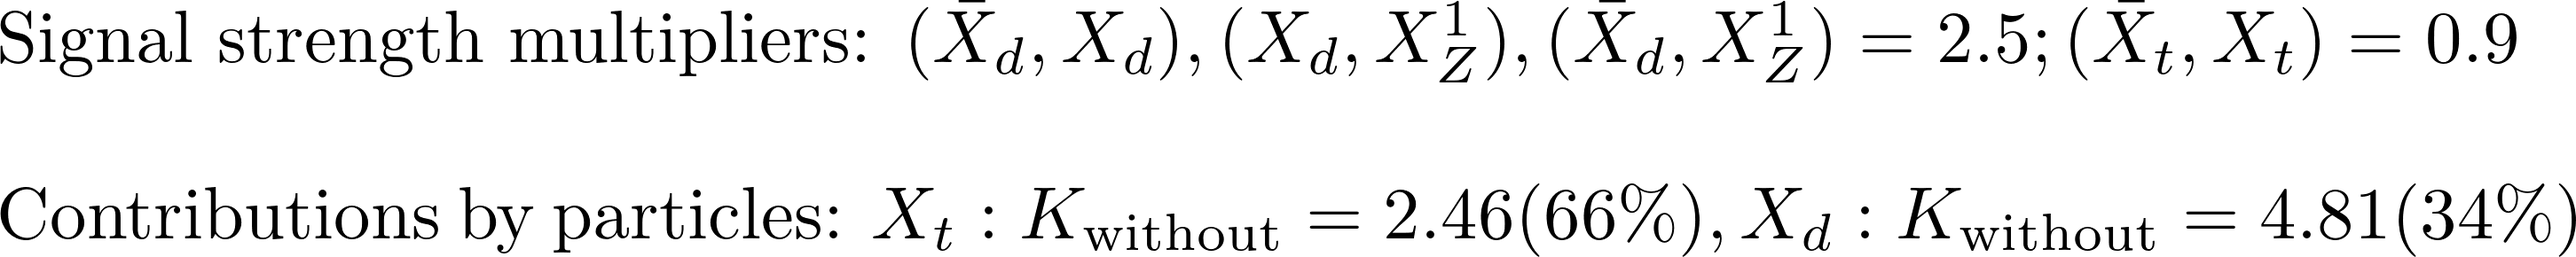
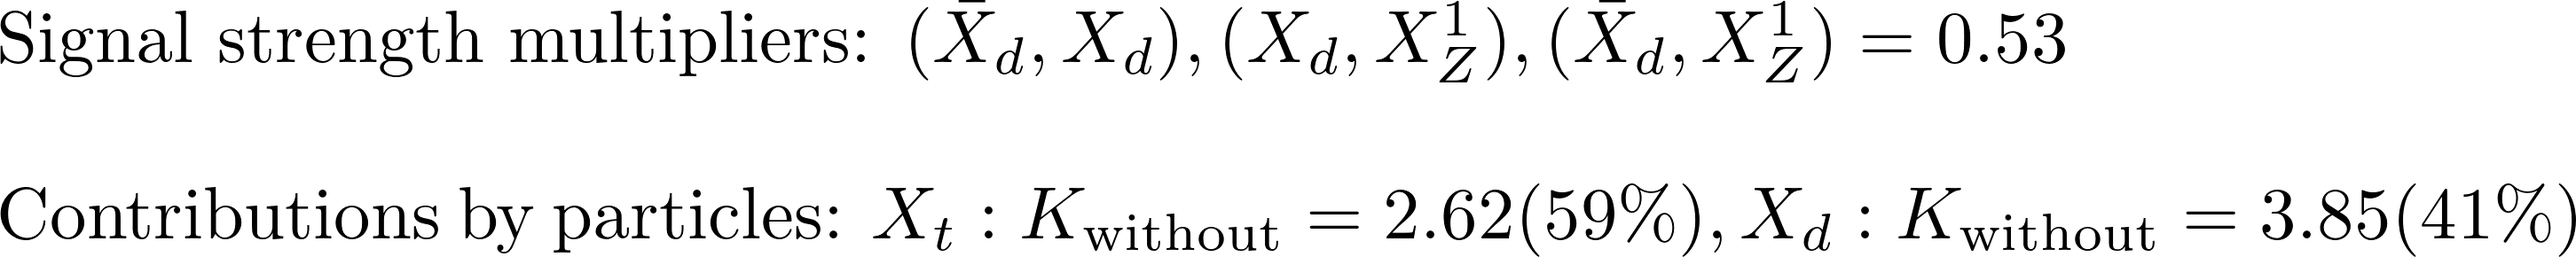
automated update by plotHiscore.py

Changed region(s): [[0.7438, 0.0, 0.9917, 0.2793], [0.8678, 0.7448, 0.9917, 0.931], [0.5579, 0.7448, 0.6508, 0.931]]

diff --git a/protomodels/2020_PioneerStudy/real1/index.html b/protomodels/2020_PioneerStudy/real1/index.html
@@ -1,31 +1,30 @@
 <html>
 <body>
 <center>
-<table><td><h1>Current best protomodel: K=7.37</h1><td><img height=60px src=https://smodels.github.io/pics/banner.png></table>
+<table><td><h1>Current best protomodel: K=6.74</h1><td><img height=60px src=https://smodels.github.io/pics/banner.png></table>
 </center>
-<b><a href=./hiscore.slha>ProtoModel</a> <a href=./pmodel.py>(dict)</a> produced with <a href=https://smodels.github.io/docs/Validation124>database v1.2.4</a>, combination strategy <a href=./matrix_aggressive.png>aggressive</a> in walker 20 step 315.</b> K plots for: <a href=./M1000022.png?9863997>X<sub>Z</sub><sup>1</sup></a>, <a href=./M1000001.png?9863997>X<sub>d</sub></a>, <a href=./M1000006.png?9863997>X<sub>t</sub></a>. HPD plots for: <a href=./llhd1000001.png?9863997>X<sub>d</sub></a>, <a href=./llhd1000006.png?9863997>X<sub>t</sub></a>. SSM plots for: <a href=./ssm_-1000006_1000006.png?9863997>(x&#772;<sub>t</sub>,X<sub>t</sub>)</a><br>
+<b><a href=./hiscore.slha>ProtoModel</a> <a href=./pmodel.py>(dict)</a> produced with <a href=https://smodels.github.io/docs/Validation124>database v1.2.4</a>, combination strategy <a href=./matrix_aggressive.png>aggressive</a> in walker 49 step 529.</b> K plots for: <a href=./M1000022.png?13242145>X<sub>Z</sub><sup>1</sup></a>, <a href=./M1000006.png?13242145>X<sub>t</sub></a>, <a href=./M1000001.png?13242145>X<sub>d</sub></a>. HPD plots for: <a href=./llhd1000006.png?13242145>X<sub>t</sub></a>, <a href=./llhd1000001.png?13242145>X<sub>d</sub></a>. SSM plots for: <a href=./ssm_-1000006_1000006.png?13242145>(x&#772;<sub>t</sub>,X<sub>t</sub>)</a><br>
 <table width=80%>
 <tr><td>
-<br><b>31 predictions available. Highest r values are:</b><br><ul>
-<li><a href=http://cms-results.web.cern.ch/cms-results/public-results/publications/SUS-19-006/index.html>CMS-SUS-19-006</a>:T2tt r=1.30, r<sub>exp</sub>=0.81<br>
-<li><a href=http://cms-results.web.cern.ch/cms-results/public-results/publications/SUS-19-006/index.html>CMS-SUS-19-006</a>:T2 r=1.19, r<sub>exp</sub>=1.07<br>
-<li><a href=http://cms-results.web.cern.ch/cms-results/public-results/publications/SUS-16-033/index.html>CMS-SUS-16-033</a>:T2 r=1.06, r<sub>exp</sub>=0.78<br>
-<li><a href=http://cms-results.web.cern.ch/cms-results/public-results/publications/SUS-16-049/index.html>CMS-SUS-16-049</a>:T2tt r=0.86, r<sub>exp</sub>=0.70<br>
-<li><a href=http://cms-results.web.cern.ch/cms-results/public-results/publications/SUS-16-036/index.html>CMS-SUS-16-036</a>:T2 r=0.84, r<sub>exp</sub>=0.74<br>
+<br><b>24 predictions available. Highest r values are:</b><br><ul>
+<li><a href=http://cms-results.web.cern.ch/cms-results/public-results/publications/SUS-19-006/index.html>CMS-SUS-19-006</a>:T2 r=1.30, r<sub>exp</sub>=1.11<br>
+<li><a href=http://cms-results.web.cern.ch/cms-results/public-results/publications/SUS-16-033/index.html>CMS-SUS-16-033</a>:T2 r=1.21, r<sub>exp</sub>=0.84<br>
+<li><a href=http://cms-results.web.cern.ch/cms-results/public-results/publications/SUS-19-006/index.html>CMS-SUS-19-006</a>:T2tt r=1.01, r<sub>exp</sub>=0.99<br>
+<li><a href=http://cms-results.web.cern.ch/cms-results/public-results/publications/SUS-16-036/index.html>CMS-SUS-16-036</a>:T2 r=0.88, r<sub>exp</sub>=0.74<br>
+<li><a href=http://cms-results.web.cern.ch/cms-results/public-results/publications/SUS-16-051/index.html>CMS-SUS-16-051</a>:T2tt r=0.73, r<sub>exp</sub>=0.47<br>
 </ul>
 <td><br><b>K values without analyses: (contribution)</b><br>
 <ul>
-<li> <a href=http://cms-results.web.cern.ch/cms-results/public-results/publications/SUS-16-050/index.html>CMS-SUS-16-050</a>: 3.57 (13%)
-<li> <a href=https://twiki.cern.ch/twiki/bin/view/CMSPublic/PhysicsResultsSUS13012>CMS-SUS-13-012</a>: 3.57 (13%)
-<li> <a href=https://atlas.web.cern.ch/Atlas/GROUPS/PHYSICS/PAPERS/SUSY-2013-02/>ATLAS-SUSY-2013-02</a>: 3.51 (13%)
-<li> <a href=https://atlas.web.cern.ch/Atlas/GROUPS/PHYSICS/PAPERS/SUSY-2013-15/>ATLAS-SUSY-2013-15</a>: 3.13 (14%)
-<li> <a href=https://atlas.web.cern.ch/Atlas/GROUPS/PHYSICS/PAPERS/SUSY-2016-16/>ATLAS-SUSY-2016-16</a>: 1.66 (19%)
-<li> <a href=https://atlas.web.cern.ch/Atlas/GROUPS/PHYSICS/PAPERS/SUSY-2016-07/>ATLAS-SUSY-2016-07</a>: -1.00 (28%)
-<td><img width=600px src=./texdoc.png?1602863997>
-<br><font size=-1>Last updated: Fri Oct 16 17:59:57 2020</font>
+<li> <a href=http://cms-results.web.cern.ch/cms-results/public-results/publications/SUS-16-050/index.html>CMS-SUS-16-050</a>: 3.70 (14%)
+<li> <a href=https://twiki.cern.ch/twiki/bin/view/CMSPublic/PhysicsResultsSUS13012>CMS-SUS-13-012</a>: 3.70 (14%)
+<li> <a href=https://atlas.web.cern.ch/Atlas/GROUPS/PHYSICS/PAPERS/SUSY-2013-02/>ATLAS-SUSY-2013-02</a>: 3.61 (14%)
+<li> <a href=https://atlas.web.cern.ch/Atlas/GROUPS/PHYSICS/PAPERS/SUSY-2016-16/>ATLAS-SUSY-2016-16</a>: 1.18 (25%)
+<li> <a href=https://atlas.web.cern.ch/Atlas/GROUPS/PHYSICS/PAPERS/SUSY-2016-07/>ATLAS-SUSY-2016-07</a>: -0.81 (34%)
+<td><img width=600px src=./texdoc.png?1606242145>
+<br><font size=-1>Last updated: Tue Nov 24 19:22:25 2020</font>
 </table><table style="width:80%">
-<td width=45%><img height=580px src=./ruler.png?1602863997><td width=55%><img height=380px src=./decays.png?1602863997>
-<font size=-3><iframe type="text/html" height="220px" width="100%s" frameborder="0" src="./rawnumbers.html?1602863997"></iframe></font>
+<td width=45%><img height=580px src=./ruler.png?1606242145><td width=55%><img height=380px src=./decays.png?1606242145>
+<font size=-3><iframe type="text/html" height="220px" width="100%s" frameborder="0" src="./rawnumbers.html?1606242145"></iframe></font>
 </table>
 </body>
 </html>

diff --git a/protomodels/2020_PioneerStudy/real1/rawnumbers.html b/protomodels/2020_PioneerStudy/real1/rawnumbers.html
@@ -2,9 +2,8 @@
 <tr><th>Analysis Name</th><th>Type</th><th>Dataset</th><th>Topos</th><th>Observed</th><th>Expected</th><th>Approx &sigma;</th><th>Particles</th>
 </tr>
 <tr><td><a href=https://atlas.web.cern.ch/Atlas/GROUPS/PHYSICS/PAPERS/SUSY-2013-02/>ATLAS-SUSY-2013-02</a></td><td>em</td> <td>SR6jtp</td><td>T2</td><td>6</td><td>4.9 +/- 1.6</td><td style="text-align:right">0.4 &sigma;</td><td style="text-align:right">X<sub>d</sub></td></tr>
-<tr><td><a href=https://atlas.web.cern.ch/Atlas/GROUPS/PHYSICS/PAPERS/SUSY-2013-15/>ATLAS-SUSY-2013-15</a></td><td>em</td> <td>tNboost</td><td>T2tt</td><td>5</td><td>3.3 +/- 0.7</td><td style="text-align:right">0.9 &sigma;</td><td style="text-align:right">X<sub>t</sub></td></tr>
 <tr><td><a href=https://atlas.web.cern.ch/Atlas/GROUPS/PHYSICS/PAPERS/SUSY-2016-07/>ATLAS-SUSY-2016-07</a></td><td>em</td> <td>2j_Meff_1200</td><td>T2</td><td>611</td><td>526 +/- 31</td><td style="text-align:right">2.2 &sigma;</td><td style="text-align:right">X<sub>d</sub></td></tr>
-<tr><td><a href=https://atlas.web.cern.ch/Atlas/GROUPS/PHYSICS/PAPERS/SUSY-2016-16/>ATLAS-SUSY-2016-16</a></td><td>em</td> <td>tN_med</td><td>T2tt</td><td>50</td><td>36.3 +/- 6.6</td><td style="text-align:right">1.5 &sigma;</td><td style="text-align:right">X<sub>t</sub></td></tr>
-<tr><td><a href=https://twiki.cern.ch/twiki/bin/view/CMSPublic/PhysicsResultsSUS13012>CMS-SUS-13-012</a></td><td>ul</td> <td>-</td><td>T2</td><td> 23.8 fb </td><td> 15.0 fb</td><td style="text-align:right">1.2 &sigma;</td><td style="text-align:right">X<sub>d</sub></td></tr>
-<tr><td><a href=http://cms-results.web.cern.ch/cms-results/public-results/publications/SUS-16-050/index.html>CMS-SUS-16-050</a></td><td>ul</td> <td>-</td><td>T2tt</td><td> 112.5 fb </td><td> 50.7 fb</td><td style="text-align:right">2.4 &sigma;</td><td style="text-align:right">X<sub>t</sub></td></tr>
+<tr><td><a href=https://atlas.web.cern.ch/Atlas/GROUPS/PHYSICS/PAPERS/SUSY-2016-16/>ATLAS-SUSY-2016-16</a></td><td>em</td> <td>tN_high</td><td>T2tt</td><td>8</td><td>3.8 +/- 1</td><td style="text-align:right">1.9 &sigma;</td><td style="text-align:right">X<sub>t</sub></td></tr>
+<tr><td><a href=https://twiki.cern.ch/twiki/bin/view/CMSPublic/PhysicsResultsSUS13012>CMS-SUS-13-012</a></td><td>ul</td> <td>-</td><td>T2</td><td> 27.9 fb </td><td> 17.1 fb</td><td style="text-align:right">1.2 &sigma;</td><td style="text-align:right">X<sub>d</sub></td></tr>
+<tr><td><a href=http://cms-results.web.cern.ch/cms-results/public-results/publications/SUS-16-050/index.html>CMS-SUS-16-050</a></td><td>ul</td> <td>-</td><td>T2tt</td><td> 4.5 fb </td><td> 2.5 fb</td><td style="text-align:right">1.6 &sigma;</td><td style="text-align:right">X<sub>t</sub></td></tr>
 </table>

diff --git a/protomodels/2020_PioneerStudy/real1/pmodel.py b/protomodels/2020_PioneerStudy/real1/pmodel.py
@@ -1,1 +1,1 @@
-{'masses': {1000022: 491.285, 1000001: 990.912, 1000006: 786.555}, 'ssmultipliers': {(1000022, 1000022): 0.822, (1000001, 1000001): 1.607, (-1000001, 1000001): 2.463, (-1000001, -1000001): 2.325, (1000001, 1000022): 2.463, (-1000001, 1000022): 2.463, (1000006, 1000006): 0.905, (-1000006, 1000006): 0.905, (-1000006, -1000006): 0.905, (1000006, 1000022): 0.905, (-1000006, 1000022): 0.905, (1000001, 1000006): 0.905, (-1000006, 1000001): 0.905, (-1000001, 1000006): 0.905, (-1000006, -1000001): 0.905}, 'decays': {1000022: {}, 1000001: {(1000022, 1): 1.0}, 1000006: {(1000022, 6): 1.0}}, 'timestamp': 'Fri Oct 16 17:59:19 2020', 'Z': 3.304, 'K': 7.37, 'walkerid': 20, 'step': 315, 'codever': '1.0', 'dbver': '1.2.4'}
+{'masses': {1000022: 180.603, 1000001: 757.246, 1000006: 1164.264}, 'ssmultipliers': {(1000022, 1000022): 0.001, (1000001, 1000001): 0.53, (-1000001, 1000001): 0.53, (-1000001, -1000001): 0.53, (1000001, 1000022): 0.53, (-1000001, 1000022): 0.53, (1000006, 1000006): 0.999, (-1000006, 1000006): 0.999, (-1000006, -1000006): 0.999, (1000006, 1000022): 0.999, (-1000006, 1000022): 0.999, (1000001, 1000006): 0.999, (-1000006, 1000001): 0.999, (-1000001, 1000006): 0.999, (-1000006, -1000001): 0.999}, 'decays': {1000022: {}, 1000001: {(1000022, 1): 1.0}, 1000006: {(1000022, 6): 1.0}}, 'timestamp': 'Tue Nov 24 19:22:07 2020', 'Z': 3.212, 'K': 6.739, 'walkerid': 49, 'step': 529, 'codever': '1.0', 'dbver': '1.2.4'}
